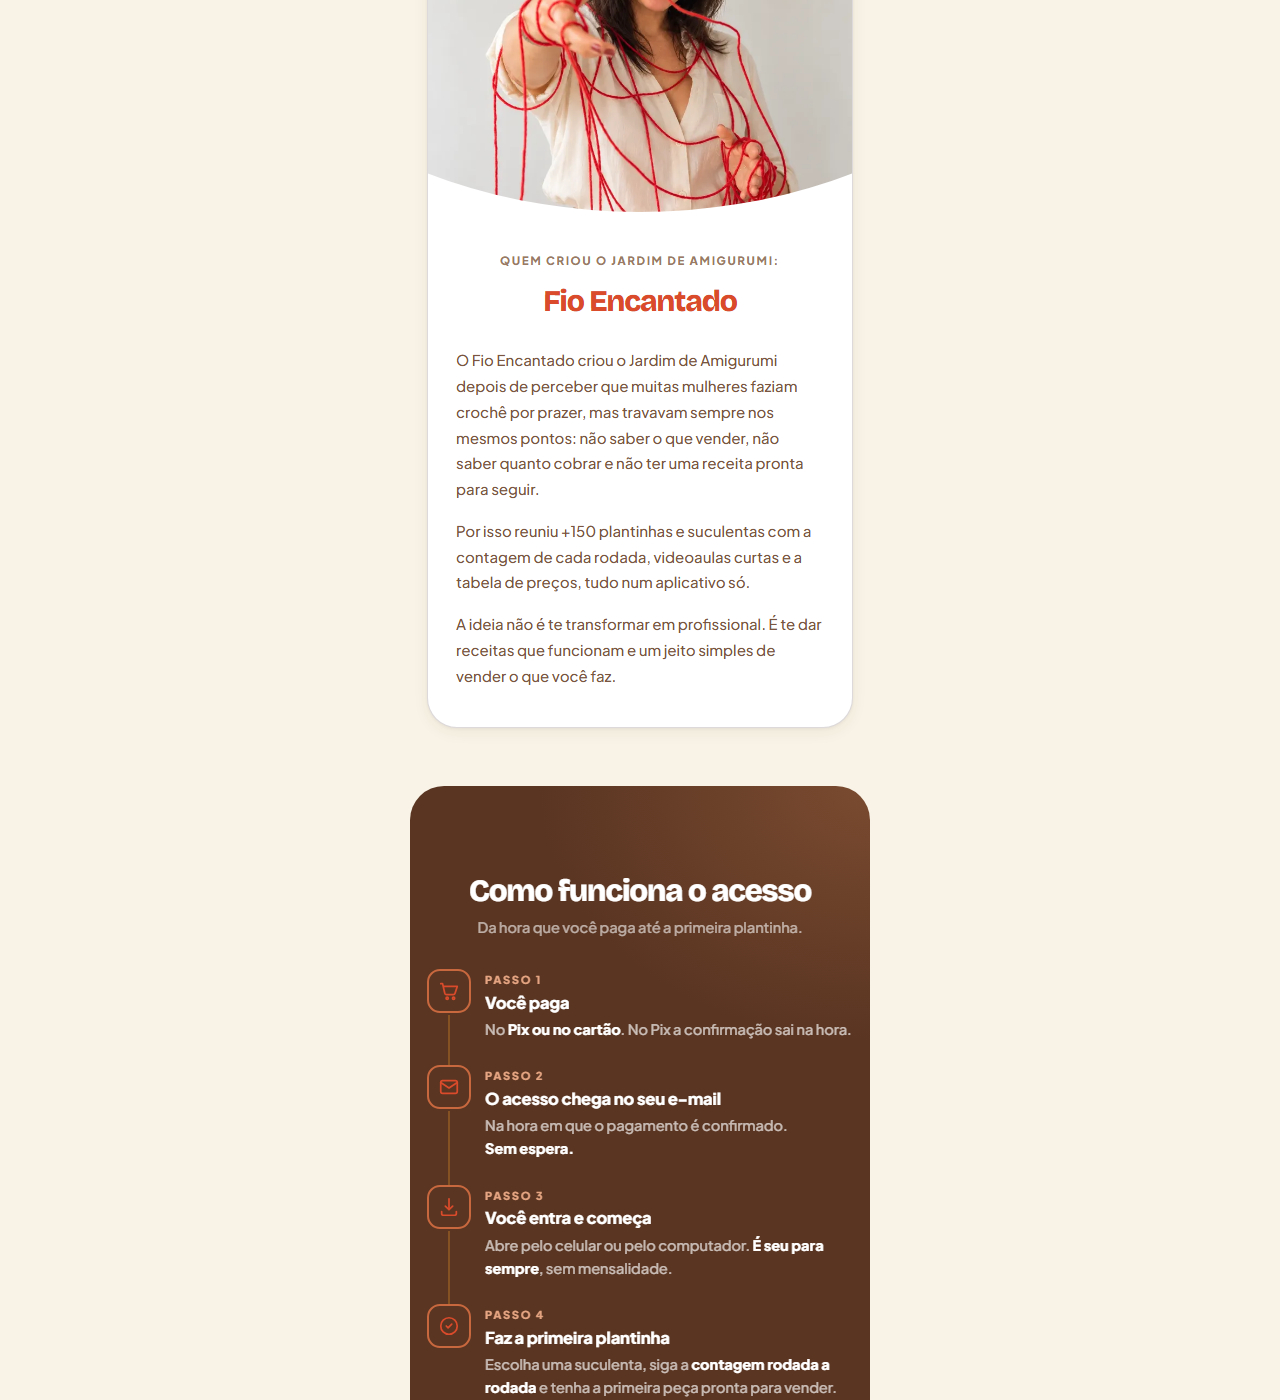
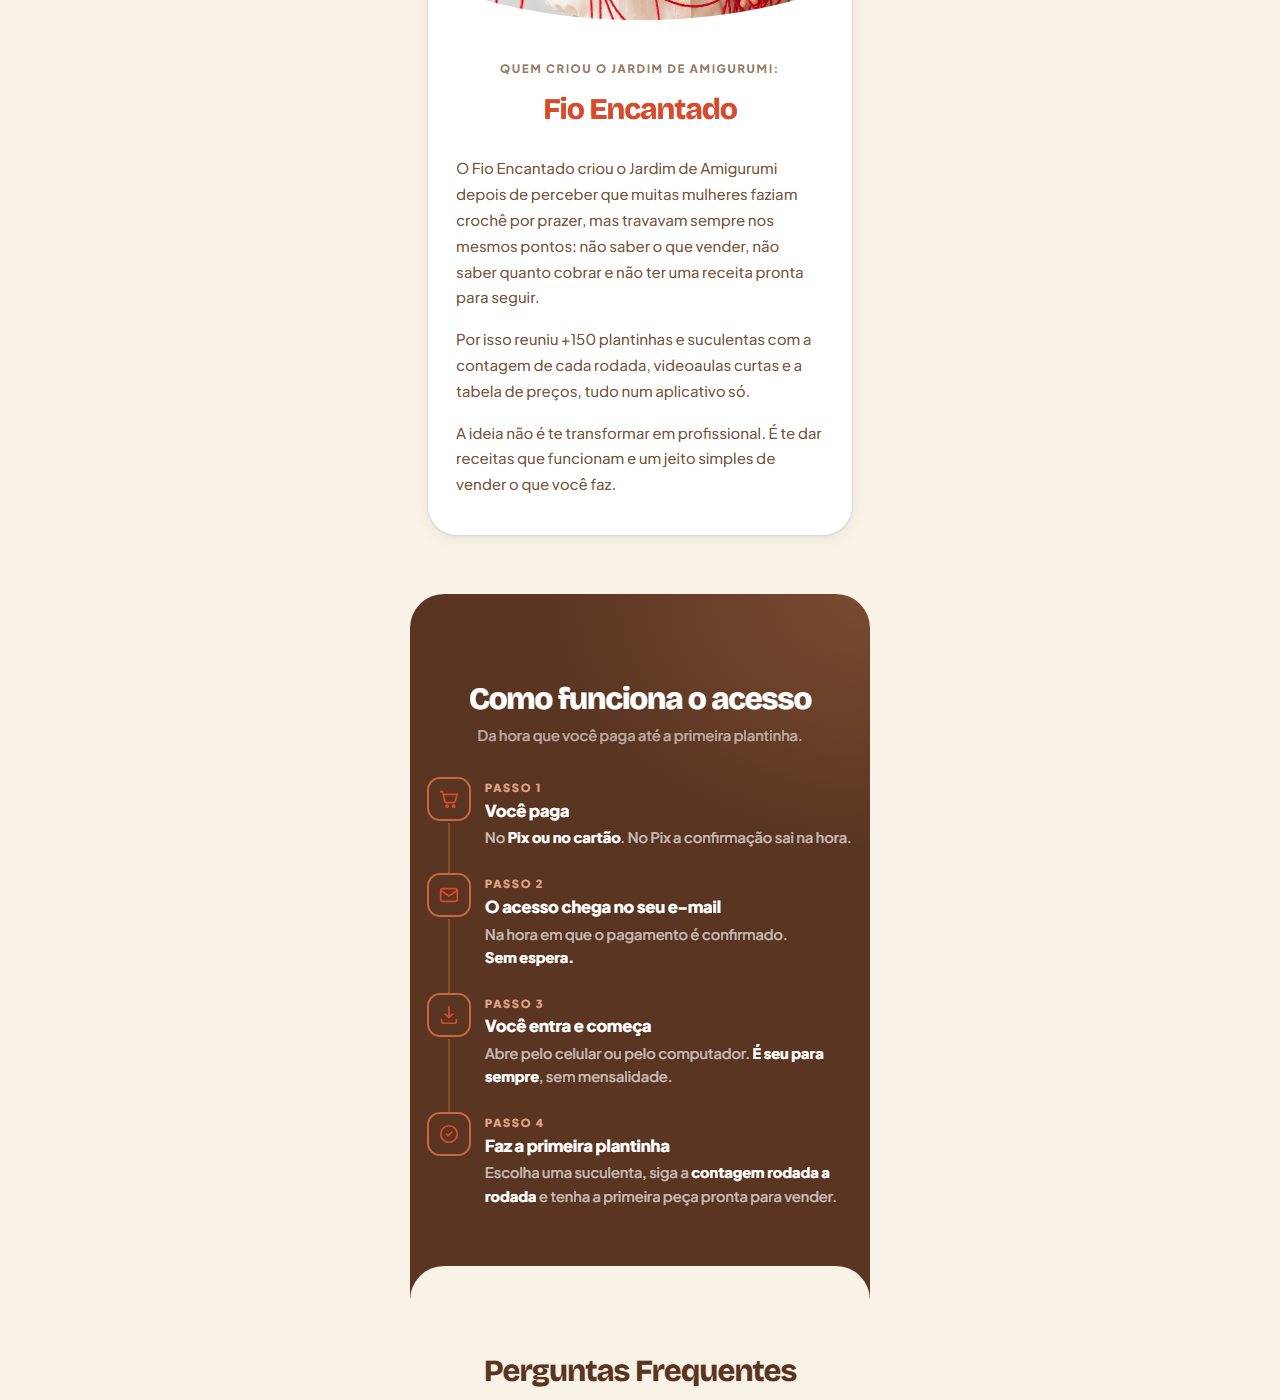
jardim: recolocar imagens

Changed region(s): [[0.3125, 0.0, 0.6875, 1.0]]

diff --git a/saidas/modelagem/2026-10-23-plantas-amigurumi/04-pagina.html b/saidas/modelagem/2026-10-23-plantas-amigurumi/04-pagina.html
@@ -7,7 +7,7 @@
 <meta http-equiv="x-dns-prefetch-control" content="on">
 <title>Jardim de Amigurumi — +200 plantinhas e suculentas de crochê para vender</title>
 <link rel="preconnect" href="https://zitfuuullg008-debug.github.io" crossorigin>
-<link rel="preload" as="image" href="https://zitfuuullg008-debug.github.io/harness-ofertas/imagens/jardim-de-amigurumi/hero-1.webp?v=543d5217" fetchpriority="high">
+<link rel="preload" as="image" href="https://zitfuuullg008-debug.github.io/harness-ofertas/imagens/jardim-de-amigurumi/hero-1.webp?v=c89a3fee" fetchpriority="high">
 <link rel="preconnect" href="https://fonts.googleapis.com">
 <link rel="preconnect" href="https://fonts.gstatic.com" crossorigin>
 <link rel="stylesheet" href="https://fonts.googleapis.com/css2?family=Plus+Jakarta+Sans:wght@500;600;700;800&family=Bricolage+Grotesque:opsz,wght@12..96,800&display=swap">
@@ -44,7 +44,7 @@
     <div class="hero-pill"><i class="emo">🪴</i><span>Peças que não murcham</span></div>
     <div class="hero-pill"><i class="emo">💰</i><span>Tabela de preços incluída</span></div>
   </div>
-  <img loading="eager" fetchpriority="high" class="hero-img" src="https://zitfuuullg008-debug.github.io/harness-ofertas/imagens/jardim-de-amigurumi/hero-1.webp?v=543d5217" alt="Mockup do Jardim de Amigurumi: celular com o aplicativo, capas das receitas e plantinhas de crochê com a placa do nome" decoding="async" width="600" height="600">
+  <img loading="eager" fetchpriority="high" class="hero-img" src="https://zitfuuullg008-debug.github.io/harness-ofertas/imagens/jardim-de-amigurumi/hero-1.webp?v=c89a3fee" alt="Mockup do Jardim de Amigurumi: celular com o aplicativo, capas das receitas e plantinhas de crochê com a placa do nome" decoding="async" width="600" height="600">
   <p class="hero-sub">O <strong>Jardim de Amigurumi</strong> traz <strong>+150 receitas de plantinhas e suculentas</strong> em amigurumi para você fazer e vender, cada uma com os fios, as cores e a contagem de cada rodada, e mais <strong>50 plantinhas de bônus</strong>, <strong>mesmo se você está começando agora</strong>.</p>
   <a href="#plano-completo" class="btn">QUERO AS PLANTINHAS AGORA</a>
   <ul class="trust"><li>🔒 Compra segura</li><li>⚡ Acesso imediato</li><li>🛡 30 dias de garantia</li></ul>
@@ -72,17 +72,6 @@
     </div>
   </div>
   <div class="demo-cta"><a href="#plano-completo" class="btn">QUERO AS PLANTINHAS AGORA</a></div>
-</section>
-
-<!-- ============ 3 · DOR ============ -->
-<section class="dor">
-  <h2>Todo mundo que faz crochê para vender faz <em>bichinhos e bonequinhos</em>.</h2>
-  <p>Ursinho, coelhinho, bonequinha: é o que mais se vê na feira, no grupo do bairro e no Instagram. Quando tem muita gente vendendo a mesma coisa, <strong>sobra só baixar o preço</strong>.</p>
-  <p>E muita gente nem chega a vender: faz peças bonitas por hobby, <strong>mas não sabe o que as pessoas compram</strong> nem quanto cobrar.</p>
-  <p>O problema não é o seu crochê. É que ninguém te deu uma peça diferente, com a receita pronta e o preço já pensado.</p>
-  <p>Plantinha de crochê <strong>não murcha, não precisa de água e combina com qualquer mesa</strong>. É presente fácil, peça fácil de entregar.</p>
-  <p>O <strong>Jardim de Amigurumi</strong> foi criado para isso: <strong>+150 plantinhas e suculentas</strong> com a receita pronta, rodada a rodada, para você montar a sua coleção e vender.</p>
-  <div style="margin-top:28px"><a href="#plano-completo" class="btn">QUERO AS PLANTINHAS AGORA</a></div>
 </section>
 
 <!-- ============ 4 · IDEAL PARA VOCÊ ============ -->
